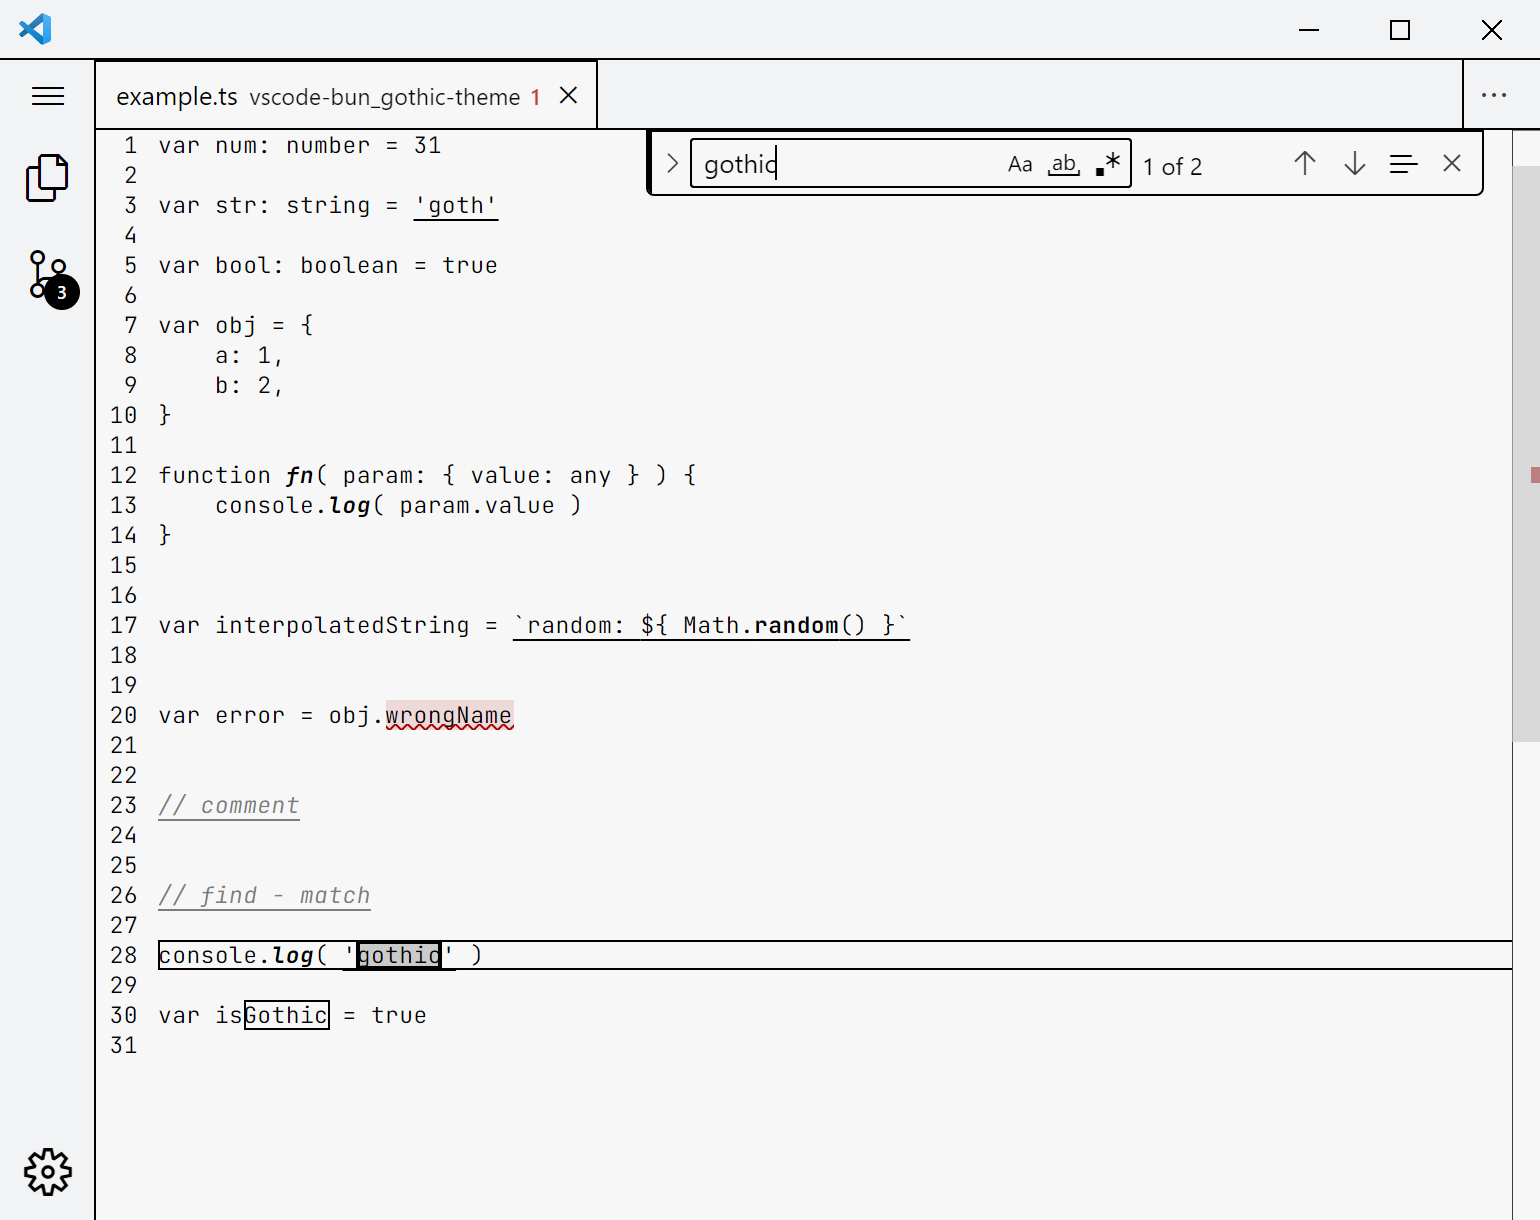
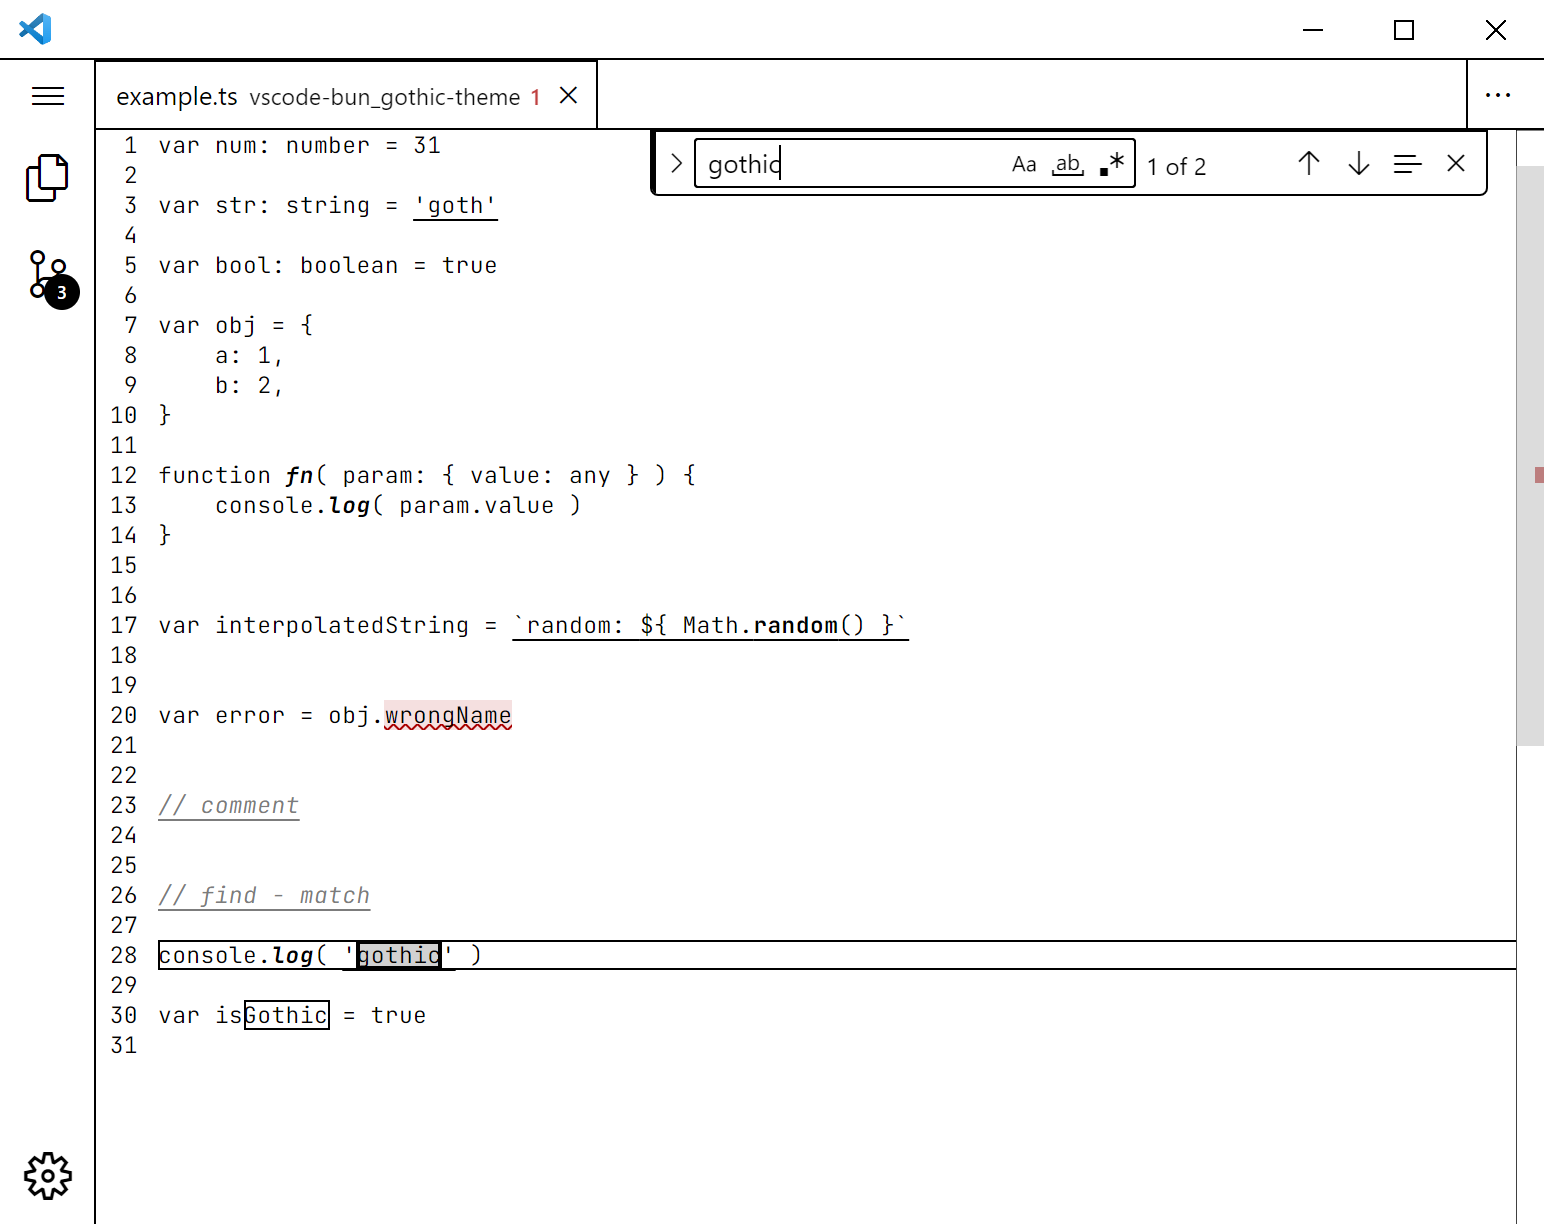
v0.3.0

diff --git a/CHANGELOG.md b/CHANGELOG.md
@@ -1,5 +1,10 @@
 # Changelog
 
+# 0.3.0
+
+- Все светлые цвета заменены на белый
+
+
 ## 0.2.1
 
 - Готизированы:
